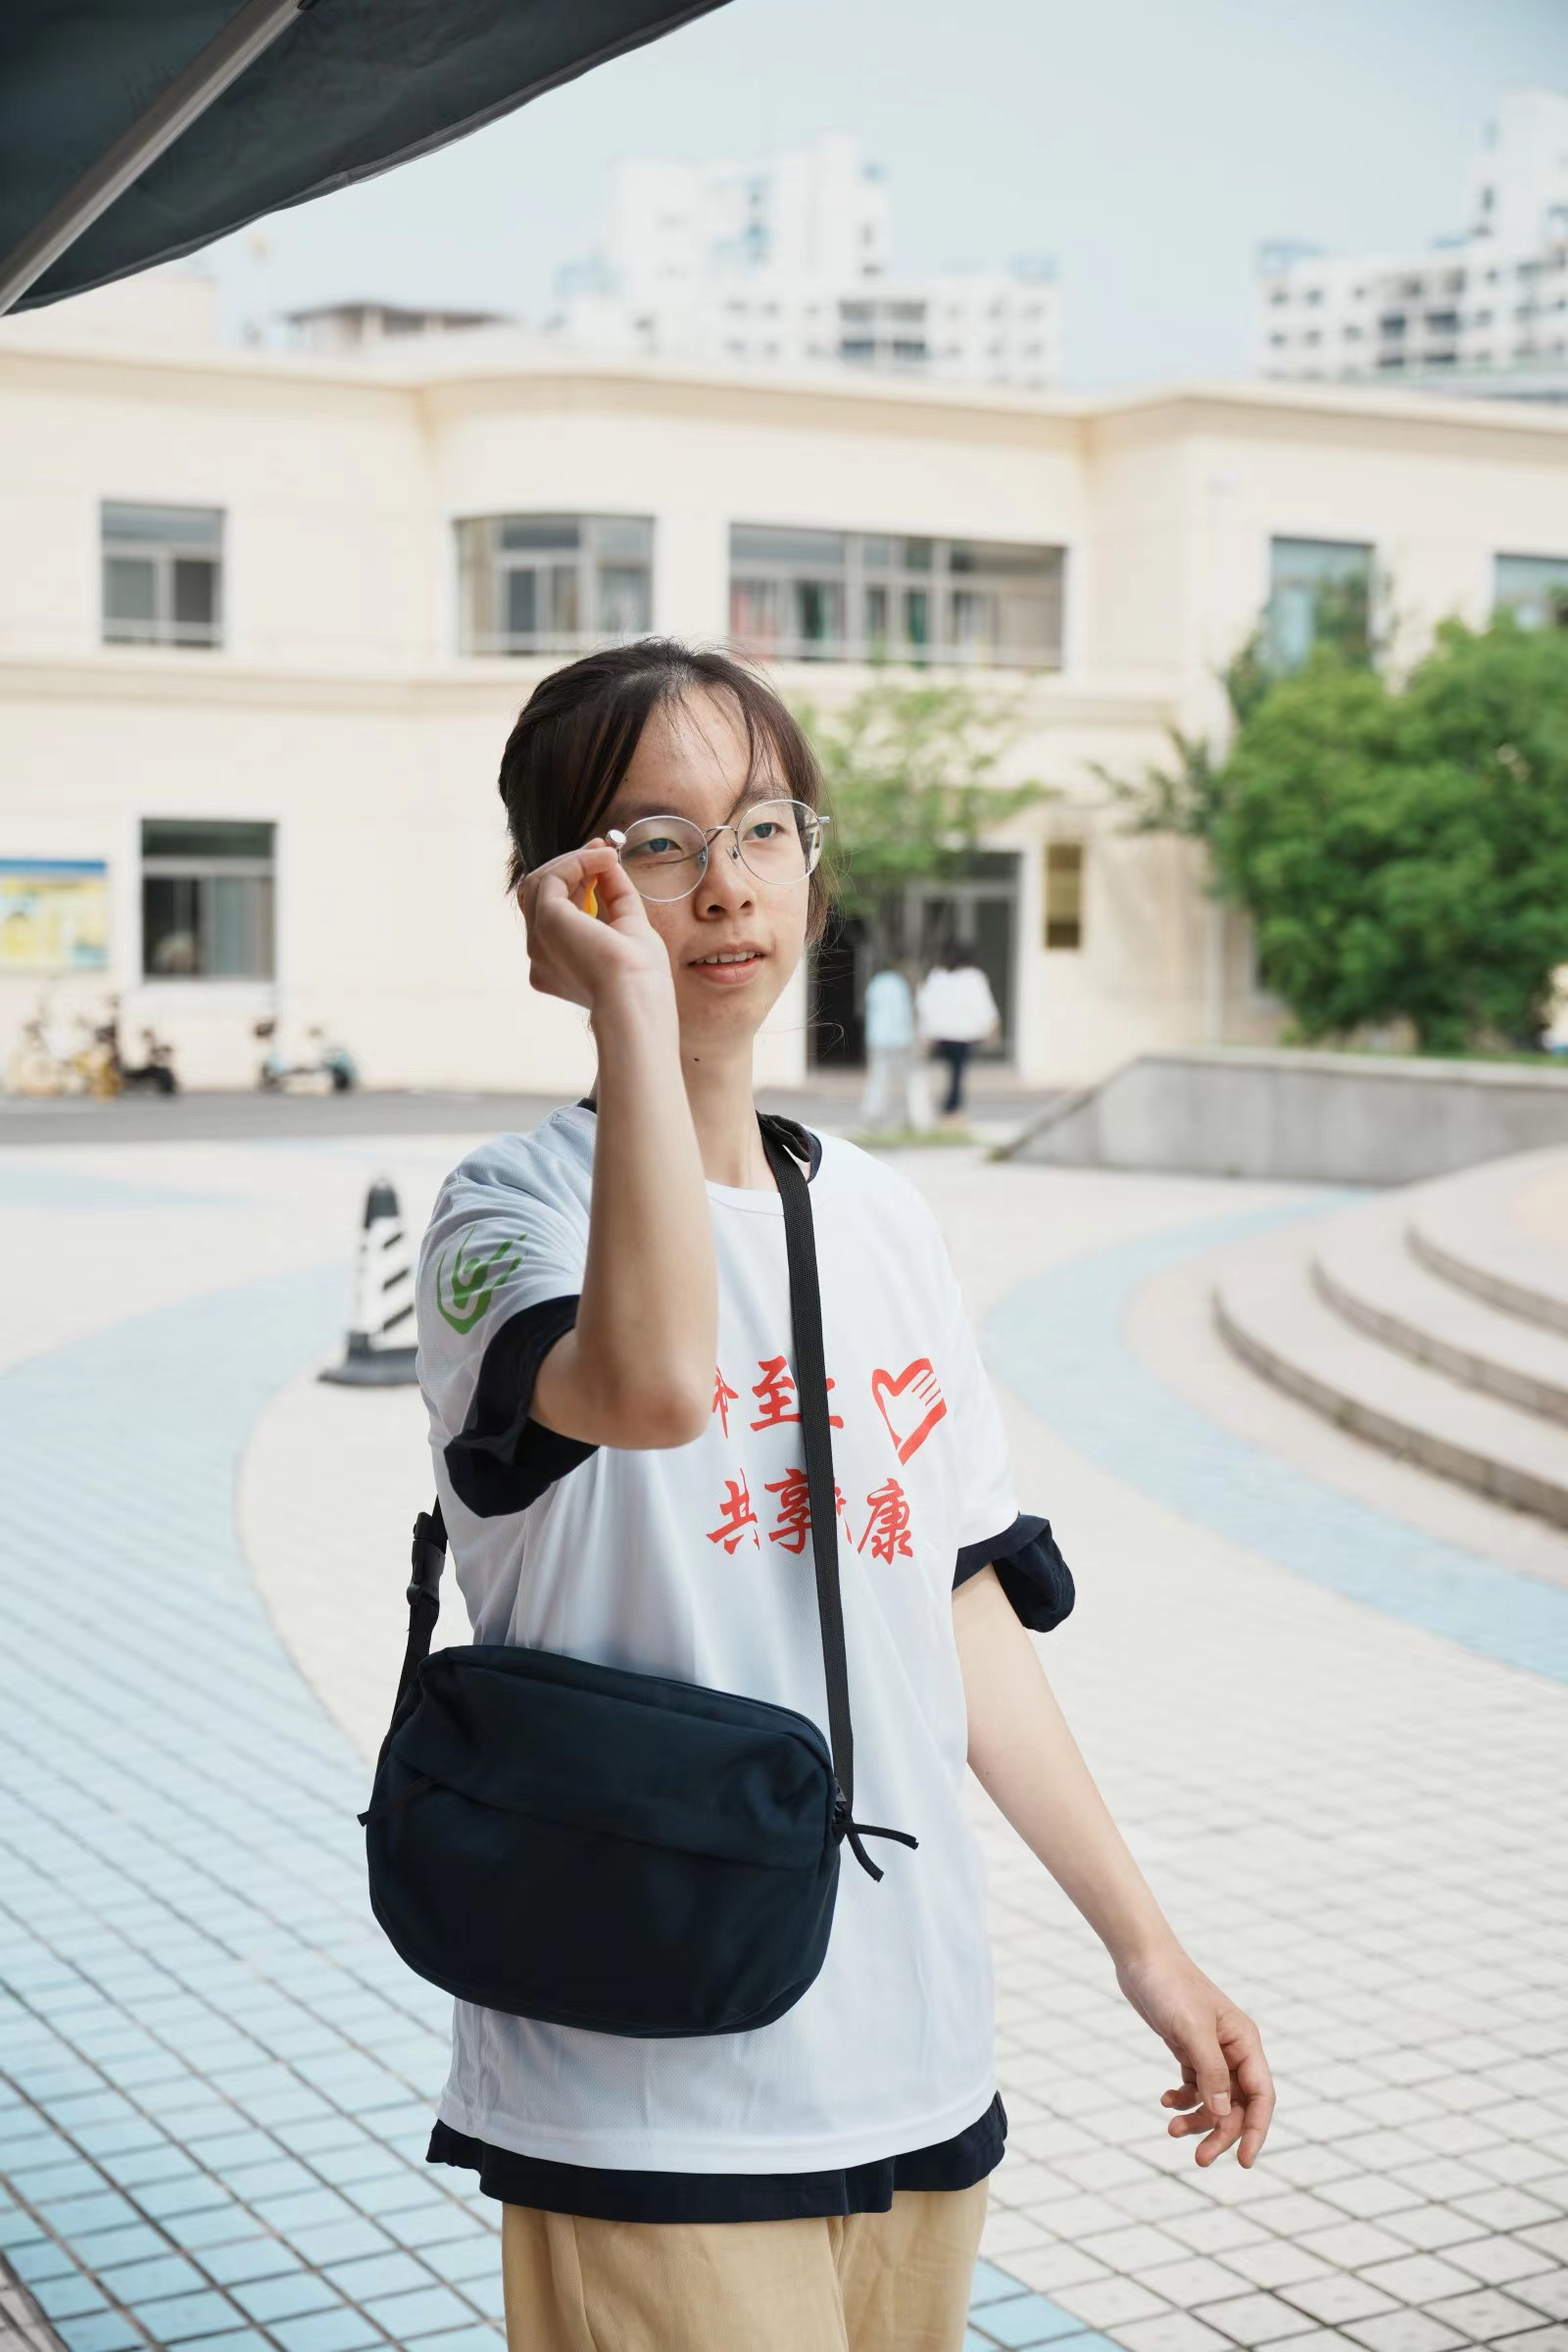
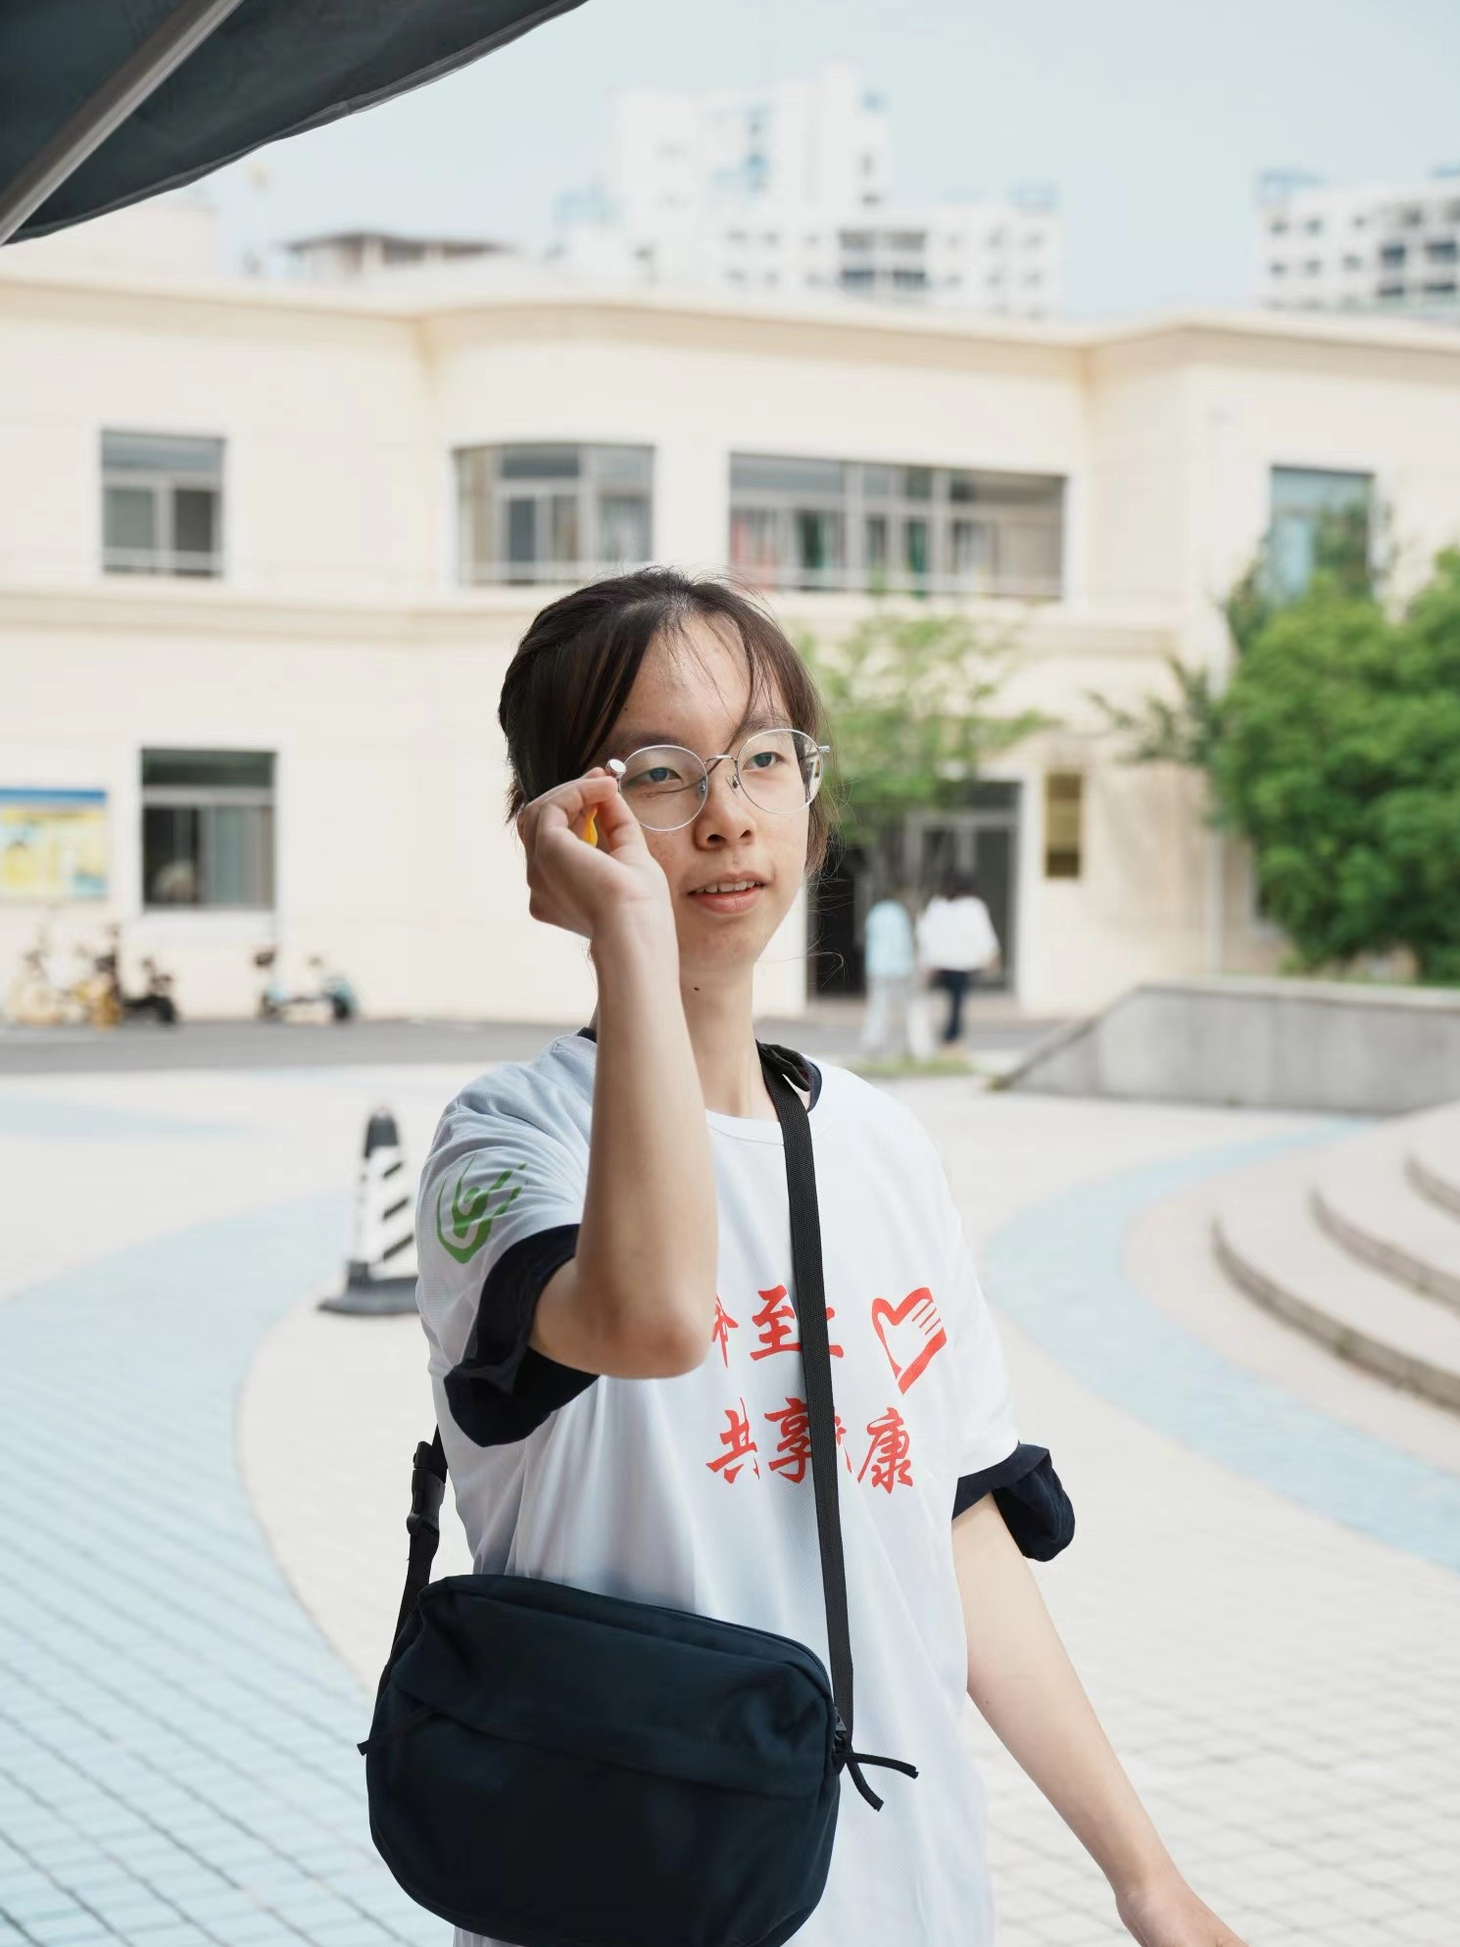
改角标

diff --git a/content/project/K_Map/卡诺图设计报告.md b/content/project/K_Map/卡诺图设计报告.md
@@ -1,7 +1,7 @@
 ---
-title: 一次失败的课设——逻辑函数化简程序设计
+title: 一次失败的课设——逻辑函数化简
 date: '2024-02-10'
-summary: 大年初一闲来无事，制作了个人网站，用这个并不成功的课设报告来作为开始，希望能劝戒自己踏实努力，新的一年戒骄戒躁。
+summary: 大年初一闲来无事，制作了个人网站，用这个并不成功的课设报告来作为开始，希望能劝诫自己踏实努力，新的一年戒骄戒躁。
 tags:
   - 课程设计
 ---

diff --git a/content/home/portfolio.md b/content/home/portfolio.md
@@ -36,6 +36,8 @@ content:
       tag: NLP
     - name: 课设
       tag: 课程设计
+    - name: 笔记
+      tag: 笔记
 
 design:
   columns: '1'
